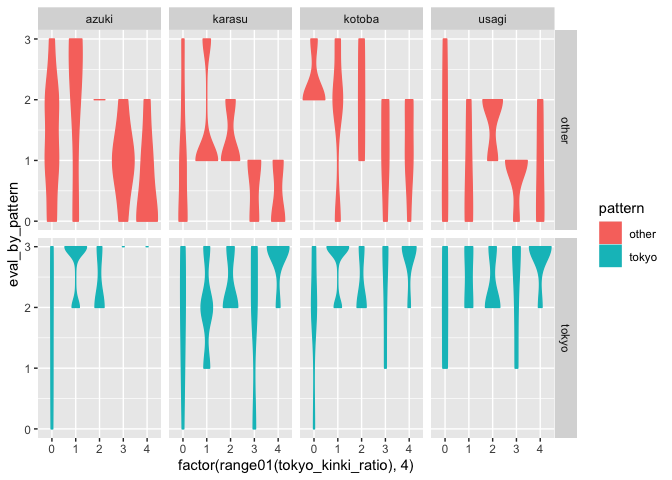
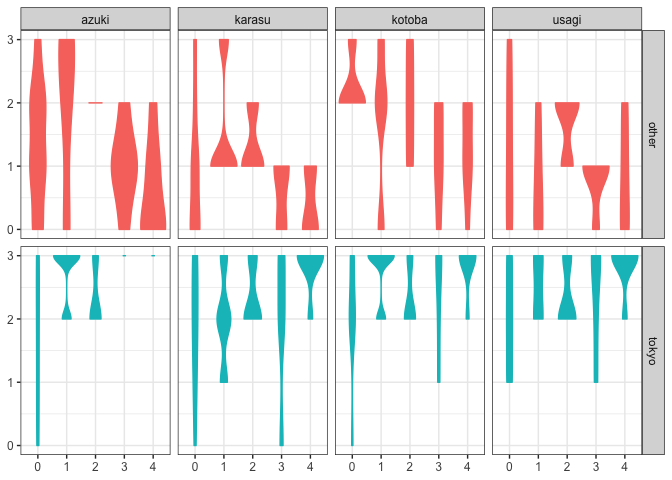
図も追加

diff --git a/results/05_follow.md b/results/05_follow.md
@@ -2,8 +2,10 @@ Follow Up Survey
 ================
 
 1.  無理に前提を置く必要はない。
-    <https://github.com/kishiyamat/illusory-vowel-keihan/pull/118>
+
+-   <https://github.com/kishiyamat/illusory-vowel-keihan/pull/118>
     をベースに資料を作成
+-   <https://docs.google.com/document/d/1U3FCDh8NETS-9mWDLfTU_0mZx9jJpFgkisukI58nV64/edit?usp=sharing>
 
 単語とかはともかく、ピッチパターンが許容できるかを確認する
 
@@ -15,41 +17,44 @@ Follow Up Survey
 -   ウサギ(*LHH*–LLH)
 
 ``` r
-results <- read_csv("follow-up.csv") %>% 
+results <- read_csv("follow-up.csv") %>%
   rename(
     input_id = "クラウドワークスのワーカー名",
     age = "現在の年齢"
-    ) %>% 
+  ) %>%
   pivot_longer(
     cols = contains("H"),
     names_to = "stimuli",
     values_to = "evaluation"
-  ) %>% 
+  ) %>%
   select(
     c(input_id, stimuli, evaluation)
-  ) %>% 
+  ) %>%
   mutate(
-    word =  gsub('[HL（）]', '', stimuli) ,
-    word  = case_when(
-      word=="ウサギ"~"usagi",
-      word=="カラス"~"karasu",
-      word=="言葉"~"kotoba",
-      word=="小豆"~"azuki",
-      TRUE ~ "other"),
+    word = gsub("[HL（）]", "", stimuli),
+    word = case_when(
+      word == "ウサギ" ~ "usagi",
+      word == "カラス" ~ "karasu",
+      word == "言葉" ~ "kotoba",
+      word == "小豆" ~ "azuki",
+      TRUE ~ "other"
+    ),
     pattern = case_when(
       stimuli %in% c("小豆（LHH）", "カラス（HLL）", "言葉（LHH）", "ウサギ（LHH）") ~ "tokyo",
-      TRUE ~ "other"),
+      TRUE ~ "other"
+    ),
     eval_int = case_when(
-      evaluation=="よく聞く"~3,
-      evaluation=="時々聞く"~2,
-      evaluation=="あまり聞いたことがない"~1,
-      evaluation=="全く聞いたことがない"~0
+      evaluation == "よく聞く" ~ 3,
+      evaluation == "時々聞く" ~ 2,
+      evaluation == "あまり聞いたことがない" ~ 1,
+      evaluation == "全く聞いたことがない" ~ 0
     )
-  ) %>% 
-  group_by(input_id, pattern, word) %>% 
+  ) %>%
+  group_by(input_id, pattern, word) %>%
   # 最大値を取れば外れ値などは関係ない
   # 平均は非東京パターンで割れたとき（0と3など）1.5などになってしまう。
-  summarise(eval_by_pattern = max(eval_int)) %>% ungroup
+  summarise(eval_by_pattern = max(eval_int)) %>%
+  ungroup()
 ```
 
     ## 
@@ -156,17 +161,34 @@ subject_info_cw <- read_csv("csv/illusory-vowel-keihan-cw.csv") %>%
 
 ``` r
 # ここの input_id で合わせればいい
-subject_info <- rbind(subject_info_sone, subject_info_cw) %>% 
+subject_info <- rbind(subject_info_sone, subject_info_cw) %>%
   mutate(
     span_tokyo_span_kinki = span_tokyo - span_kinki,
     tokyo_kinki_ratio = (span_tokyo - span_kinki) / age
   )
+head(subject_info)
 ```
 
+    ## # A tibble: 6 x 10
+    ##   run_id input_id span_tokyo span_kinki subj_id   age data_src span_unknown
+    ##    <int> <chr>         <int>      <int> <chr>   <int> <chr>           <int>
+    ## 1    127 0007             55          0 127_00…    55 sone                0
+    ## 2    131 0008             38          0 131_00…    38 sone                0
+    ## 3    128 0009             29          7 128_00…    36 sone                0
+    ## 4    149 0005             25          0 149_00…    25 sone                0
+    ## 5    148 0006             10          0 148_00…    10 sone                0
+    ## 6    170 1003              1         55 170_10…    56 sone                0
+    ## # … with 2 more variables: span_tokyo_span_kinki <int>,
+    ## #   tokyo_kinki_ratio <dbl>
+
 ``` r
-follow_list = results$input_id %>% unique
+follow_list <- results$input_id %>% unique()
 # ↑に存在するが↓に存在しないパターンがよろしくない。
-original_list = subject_info %>% filter(data_src=="cw") %>% select(input_id) %>% unlist %>% unique
+original_list <- subject_info %>%
+  filter(data_src == "cw") %>%
+  select(input_id) %>%
+  unlist() %>%
+  unique()
 # これらが問題
 # 28しかない。4件落ちている。年齢から推定する(?)
 `%notin%` <- Negate(`%in%`)
@@ -177,7 +199,7 @@ follow_list[follow_list %notin% original_list]
 
 ``` r
 # head(subject_info)
-merged_results = results %>% merge(subject_info)
+merged_results <- results %>% merge(subject_info)
 head(merged_results)
 ```
 
@@ -205,7 +227,7 @@ head(merged_results)
 
 ``` r
 # -1から1の値を取る(まぁ0--4に分割、とかでいいか。)
-merged_results %>% 
+g <- merged_results %>%
   ggplot() +
   facet_grid(pattern ~ word) +
   geom_violin(aes(
@@ -213,7 +235,24 @@ merged_results %>%
     y = eval_by_pattern,
     color = pattern,
     fill = pattern
-  ))
+  )) +
+  theme_bw() +
+  scale_shape_manual(values = c(16, 21)) +
+  # scale_fill_manual(values = c("black", "white")) +
+  theme(
+    legend.position = "none",
+    axis.title.y = element_blank()
+  ) +
+  theme(
+    axis.text = element_text(size = 9),
+    axis.title = element_text(size = 12, face = "bold"),
+    strip.text.x = element_text(size = 9),
+    axis.title.x = element_blank()
+  )
+
+ggsave(file = "artifact/follow_up.pdf", g, width = 8, height = 8, units = "cm")
+ggsave(file = "artifact/follow_up.png", g, width = 8, height = 8, units = "cm")
+g
 ```
 
 ![](05_follow_files/figure-gfm/unnamed-chunk-5-1.png)<!-- -->
@@ -251,7 +290,8 @@ library(lmerTest)
 model <- lmer(
   eval_by_pattern ~
   pattern * tokyo_kinki_ratio + (1 | input_id) + (1 | word),
-  data = merged_results)
+  data = merged_results
+)
 ```
 
 ``` r
@@ -296,3 +336,9 @@ summary(model)
     ## patterntoky -0.349              
     ## toky_knk_rt -0.064  0.048       
     ## pttrntky:__  0.033 -0.095 -0.512
+
+``` r
+print("EOF")
+```
+
+    ## [1] "EOF"
